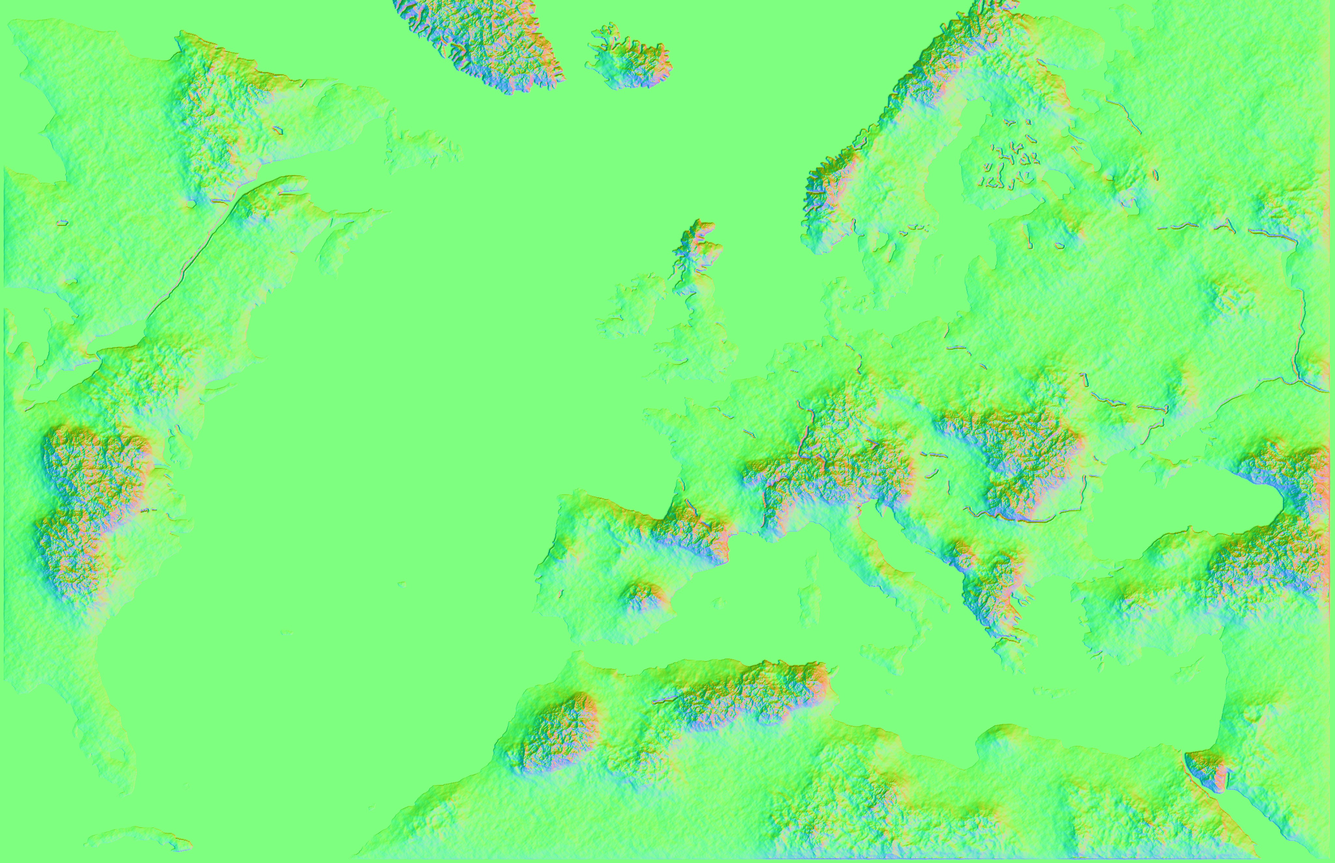
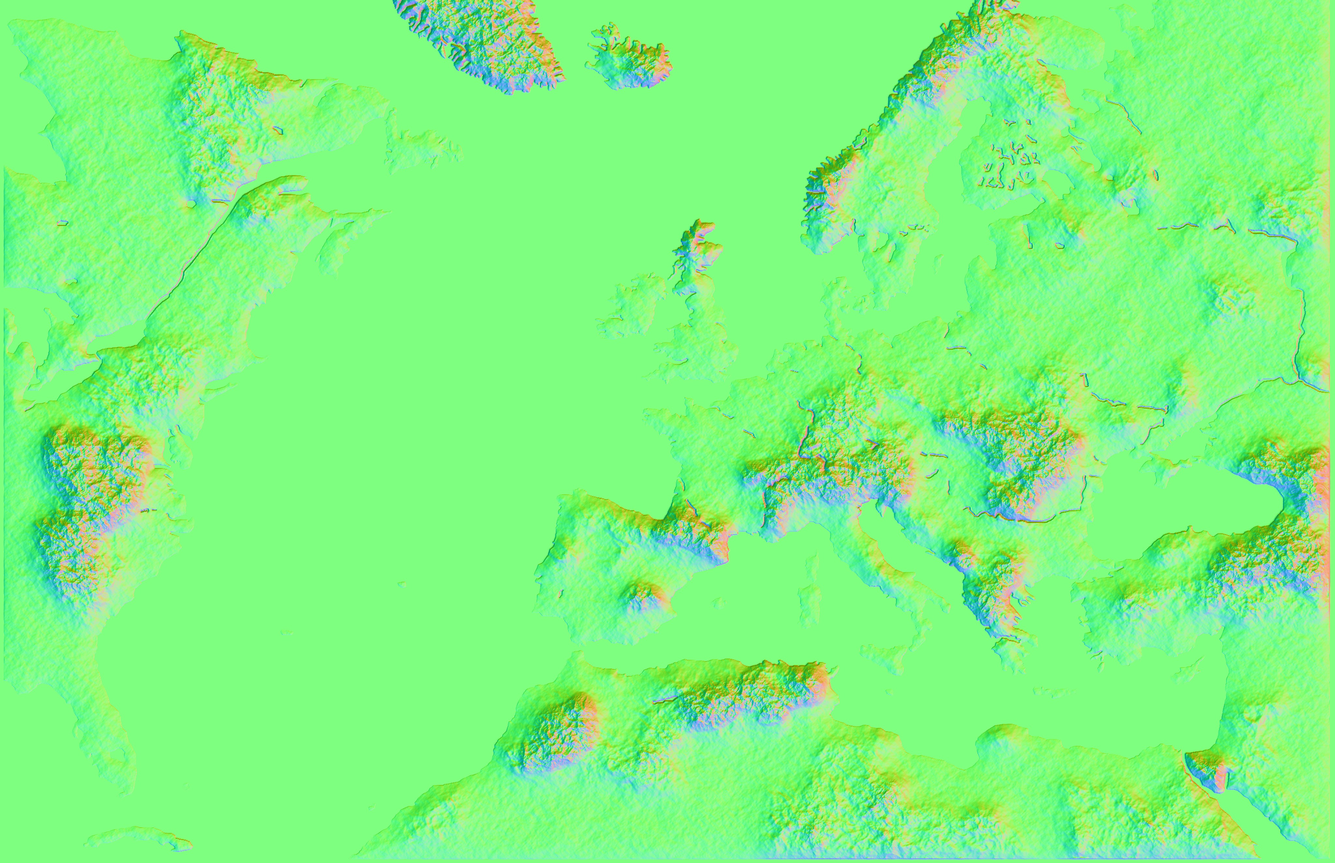
3D view: names never overlap, higher sun and softer fill, calmer mountain relief
Claude-Session: https://claude.ai/code/session_01JDcWw2LqBNgu3FSif6xRGG

diff --git a/3d/index.html b/3d/index.html
@@ -97,7 +97,7 @@ const skyC=document.createElement('canvas'); skyC.width=4; skyC.height=512; { co
   g.addColorStop(0,'#0a1a2c'); g.addColorStop(.30,'#1d4766'); g.addColorStop(.47,'#6f9bb5'); g.addColorStop(.52,'#d9c7a6'); g.addColorStop(.56,'#6f8a95'); g.addColorStop(1,'#1a3240'); x.fillStyle=g; x.fillRect(0,0,4,512); }
 const sky=new THREE.CanvasTexture(skyC); sky.colorSpace=THREE.SRGBColorSpace; scene.background=new THREE.Color(0x0b1622);
 const skyDome=new THREE.Mesh(new THREE.SphereGeometry(9000,32,16),new THREE.ShaderMaterial({side:THREE.BackSide,depthWrite:false,fog:false,
-  uniforms:{ uSun:{value:new THREE.Vector3(-1700,1250,-1200).normalize()} },
+  uniforms:{ uSun:{value:new THREE.Vector3(-1700,1950,-1200).normalize()} },
   vertexShader:'varying vec3 vW; void main(){ vec4 w=modelMatrix*vec4(position,1.); vW=w.xyz-cameraPosition; gl_Position=projectionMatrix*viewMatrix*w; }',
   fragmentShader:`uniform vec3 uSun; varying vec3 vW;
     void main(){ vec3 d=normalize(vW); float h=d.y; vec3 zen=vec3(.10,.25,.42), hor=vec3(.62,.72,.76), low=vec3(.30,.40,.45);
@@ -229,10 +229,10 @@ water.material.color.set(0xffffff); water.material.needsUpdate=true;
 water.rotation.x=-Math.PI/2; water.position.set(W/2,.7,H/2); water.receiveShadow=false; water.userData.noAO=true; scene.add(water);
 
 // ---------- light ----------
-scene.add(new THREE.HemisphereLight(0xcfe4ff,0x3a3a26,.62));
-const sun=new THREE.DirectionalLight(0xffe9cc,3.0); sun.position.set(W/2-1700,1250,H/2-1200); sun.target.position.set(W/2,0,H/2); scene.add(sun.target);
+scene.add(new THREE.HemisphereLight(0xcfe4ff,0x3a3a26,.78));
+const sun=new THREE.DirectionalLight(0xffe9cc,3.0); sun.position.set(W/2-1700,1950,H/2-1200); sun.target.position.set(W/2,0,H/2); scene.add(sun.target);
 sun.castShadow=true; const SM=PHONE?1024:4096; sun.shadow.mapSize.set(SM,SM); Object.assign(sun.shadow.camera,{left:-2000,right:2000,top:1700,bottom:-1700,near:200,far:5200}); sun.shadow.bias=-.0004; sun.shadow.normalBias=1.2; scene.add(sun);
-const SUND=new THREE.Vector3(-1700,1250,-1200).normalize(); let shKey='';
+const SUND=new THREE.Vector3(-1700,1950,-1200).normalize(); let shKey='';
 function fitShadow(){ const T=ctl.target, d=cam.position.distanceTo(T), ext=Math.max(110,Math.min(2100,d*1.15));
   const key=Math.round(T.x/4)+','+Math.round(T.z/4)+','+Math.round(ext/4); if(key===shKey) return; shKey=key;
   sun.target.position.set(T.x,0,T.z); sun.position.set(T.x+SUND.x*3000,SUND.y*3000,T.z+SUND.z*3000); const c=sun.shadow.camera;
@@ -588,7 +588,13 @@ function frame(){ requestAnimationFrame(frame); const now=performance.now(), dt=
   nT.offset.x+=dt*.012; nT.offset.y+=dt*.007;
   if(labG.visible){ const camD=cam.position.distanceTo(ctl.target);
     for(const l of labs){ tmp.copy(l.sp.position); const d=tmp.distanceTo(cam.position); const lim=l.it.big?Math.max(700,camD*1.35):Math.min(camD*.9,520);
-      const o=Math.max(0,Math.min(1,(lim-d)/(lim*.25))); l.sp.material.opacity=o; l.sp.visible=o>.02; const s=(l.it.big?.17:.13)*LK*Math.max(1,Math.min(1.9,d/650)); l.sp.scale.set(l.it.px*s,LH*s,1); } }
+      const o=Math.max(0,Math.min(1,(lim-d)/(lim*.25))); l.sp.material.opacity=o; l.sp.visible=o>.02; const s=(l.it.big?.17:.13)*LK*Math.max(1,Math.min(1.9,d/650)); l.sp.scale.set(l.it.px*s,LH*s,1); l.d=d; }
+    // hide names that would overlap a more important one on screen
+    const fpx=innerHeight/(2*Math.tan(cam.fov*Math.PI/360)), placed=[];
+    const order=labs.filter(l=>l.sp.visible).sort((a,b)=>(b.it.big-a.it.big)||(a.d-b.d));
+    for(const l of order){ tmp.copy(l.sp.position).project(cam); if(tmp.z>1){ l.sp.visible=false; continue; }
+      const x=(tmp.x*.5+.5)*innerWidth, y=(-tmp.y*.5+.5)*innerHeight, w=l.sp.scale.x/l.d*fpx*.9, h=l.sp.scale.y/l.d*fpx*.8;
+      const r=[x-w/2,y-h,x+w/2,y]; if(placed.some(q=>r[0]<q[2]&&r[2]>q[0]&&r[1]<q[3]&&r[3]>q[1])){ l.sp.visible=false; continue; } placed.push(r); } }
   if(unitG.visible){ for(const p of pins){ const d=p.sp.position.distanceTo(cam.position), s=19*PK*Math.max(1,Math.min(2.2,d/800)); p.sp.scale.set(s,s,1); } }
   if(HQ&&comp&&still){ hqUpdate(); comp.render(); hdDue=false; lastF=0; } else { R.render(scene,cam); hdDue=true; adapt(now); } window.FRAMES=(window.FRAMES||0)+1; }
 step(); frame();
